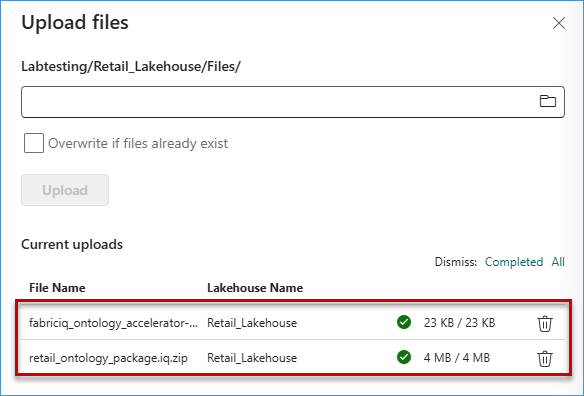
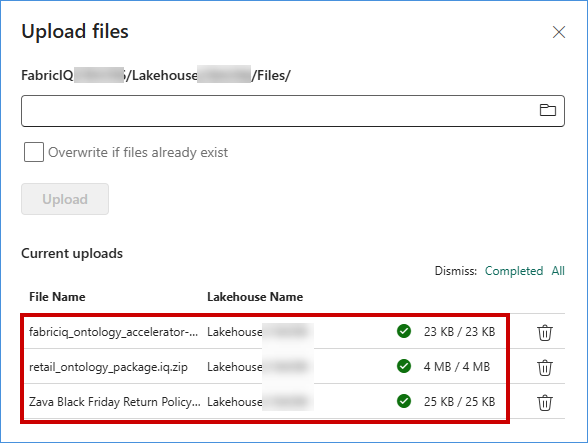
commit

diff --git a/Lab/Lab 1- Building Fabric IQ/Exercise2-Generate Ontology Data.md b/Lab/Lab 1- Building Fabric IQ/Exercise2-Generate Ontology Data.md
@@ -53,14 +53,11 @@ In this task of the workshop, you will be creating a Lakehouse.
     2. Navigate to the path: **C:\FabricIQLab\Ontology**.
     3. Select the required files:
         - Click **fabriciq_ontology_accelerator-0.1.0-py3...**
+        - Hold down the Ctrl key and click **Zava Black Friday Return Policy** (to select multiple files)
         - Hold down the Ctrl key and click **retail_ontology_package.iq** (to select multiple files)
     4. Click Open.
 
         ![ClickFolder](../media/iqfolderupload.png)
-
-10. Ensure both **retail_ontology_package.iq** and **fabriciq_ontology_accelerator-0.1.0-py3-none-any.whl** are highlighted (selected) before clicking **Open**.
-
-    ![OntologyPackageFiles](../media/OntologyPackageFiles.png)
 
 11. click on **Upload**.
 
@@ -68,7 +65,7 @@ In this task of the workshop, you will be creating a Lakehouse.
 
     > Rename this file and remove .zip after all update completed.
 
-12. Close the upload window once both file uploaded.
+12. Close the upload window once all file uploaded.
 
     ![CurrentUpload](../media/CurrentUpload.png)
 

diff --git a/Lab/Lab Overview & Instructions.md b/Lab/Lab Overview & Instructions.md
@@ -195,7 +195,6 @@ Retail environments generate large volumes of **real-time operational data**.
 
 Fabric IQ integrates these signals into the ontology using:
 
-- **Eventstream**
 - **Eventhouse**
 - **Operations Agents**
 
